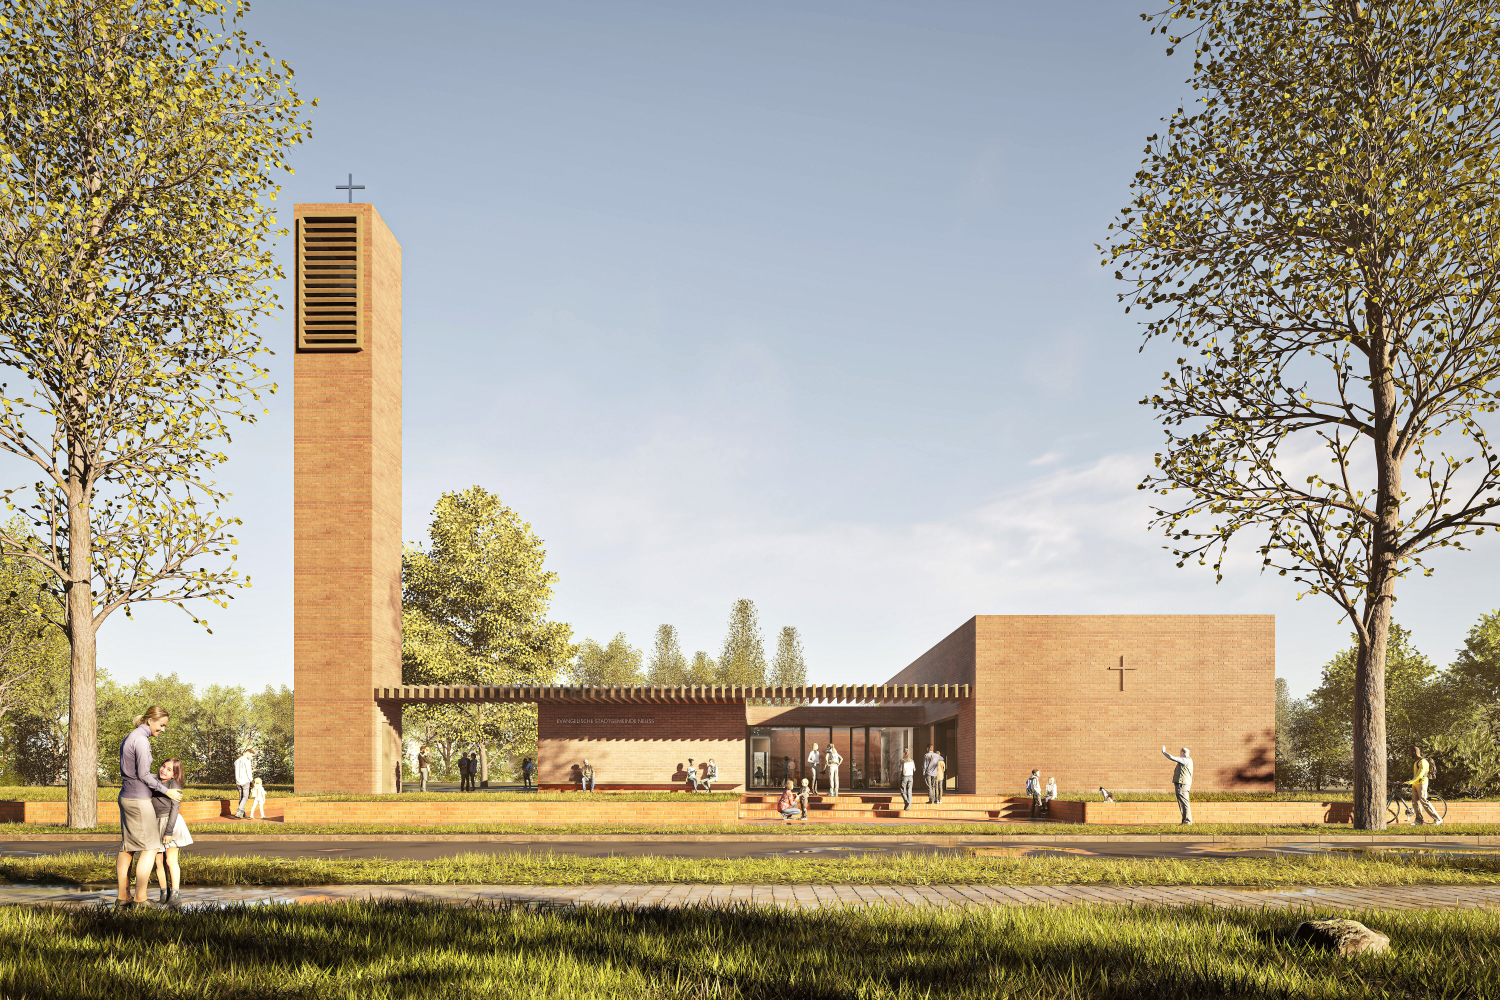
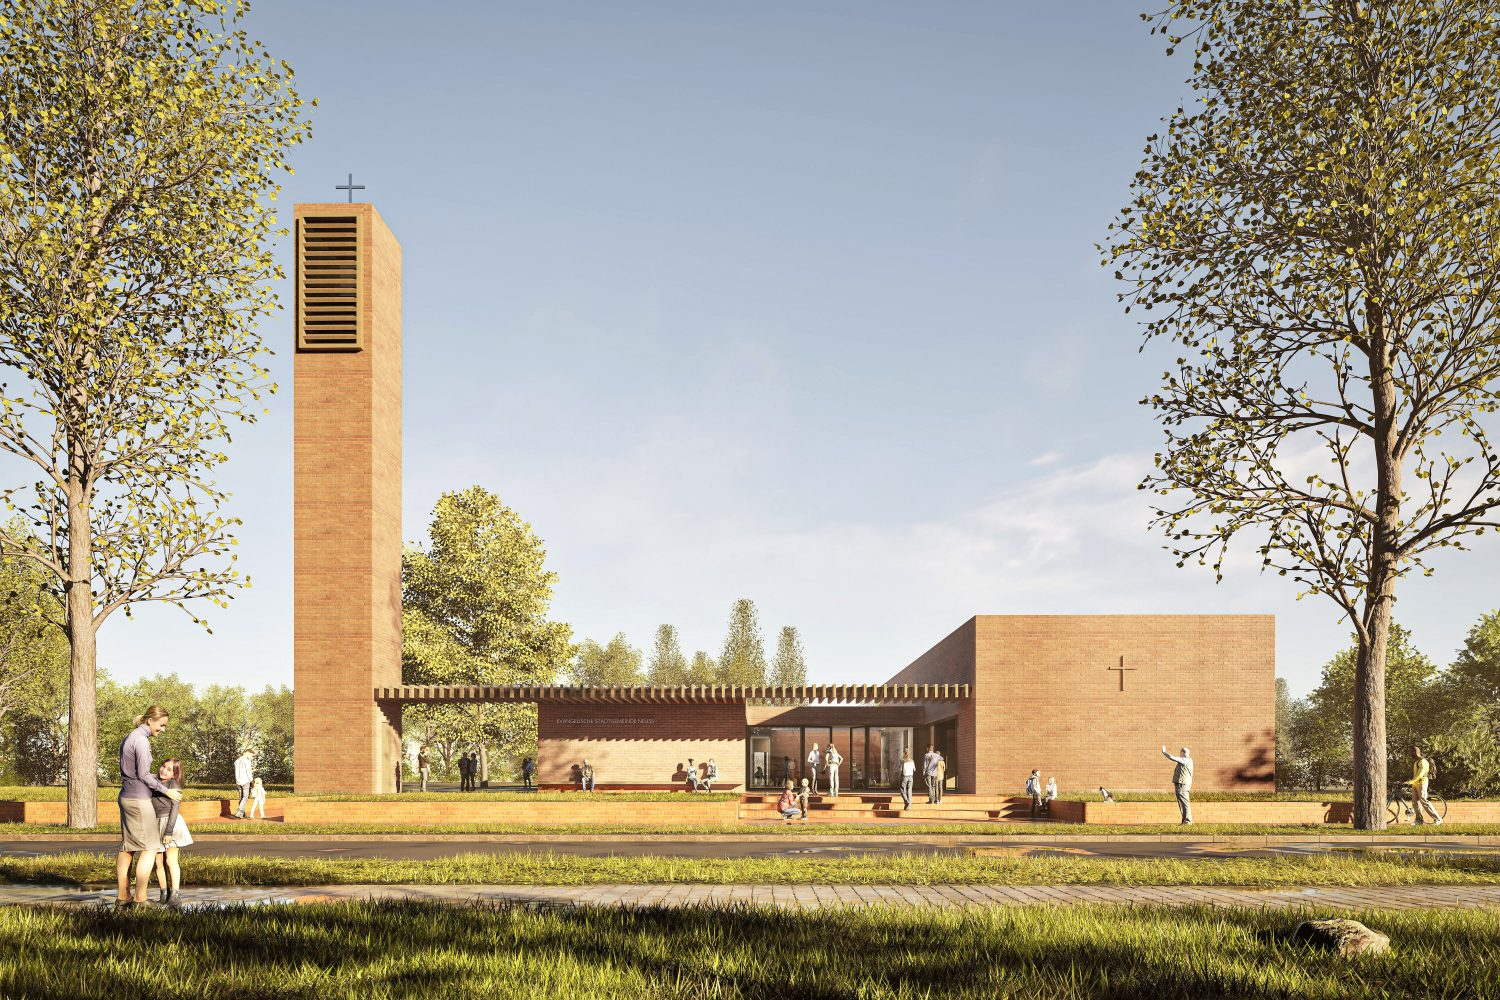
dca

diff --git a/_SKRIPT_titelbilder_verkleinern.py b/_SKRIPT_titelbilder_verkleinern.py
@@ -1,0 +1,69 @@
+"""
+Verkleinert die Datei "DCA-Titelbild.jpg" in jedem Projektordner unter "projekte",
+damit das Grid auf der Startseite schneller lädt.
+
+Vorgehen:
+- Original wird einmalig in einen Unterordner "original" verschoben (Sicherung)
+- Aus dem Original wird eine verkleinerte/komprimierte Version erzeugt
+  und unter dem ursprünglichen Namen (DCA-Titelbild.jpg) gespeichert
+
+Benötigt: Pillow  ->  pip install Pillow
+"""
+
+import os
+from pathlib import Path
+from PIL import Image
+
+# === Einstellungen ===
+# "projekte"-Ordner liegt im selben Verzeichnis wie dieses Skript
+PROJEKTE_ORDNER = Path(__file__).resolve().parent / "projekte"
+DATEINAME = "DCA-Titelbild.jpg"
+MAX_BREITE = 2000           # maximale Breite in Pixel (Höhe wird proportional angepasst)
+JPEG_QUALITAET = 82          # Kompressionsqualität 1-100, 80-85 ist ein guter Kompromiss
+BACKUP_ORDNER = "original"   # Unterordner, in dem die Originaldatei gesichert wird
+
+
+def verkleinere_bild(pfad: Path):
+    backup_dir = pfad.parent / BACKUP_ORDNER
+    backup_dir.mkdir(exist_ok=True)
+    backup_pfad = backup_dir / pfad.name
+
+    # Original einmalig sichern
+    if not backup_pfad.exists():
+        pfad.rename(backup_pfad)
+
+    quelle = backup_pfad
+
+    with Image.open(quelle) as img:
+        img = img.convert("RGB")
+        breite, hoehe = img.size
+        if breite > MAX_BREITE:
+            verhaeltnis = MAX_BREITE / breite
+            neue_groesse = (MAX_BREITE, round(hoehe * verhaeltnis))
+            img = img.resize(neue_groesse, Image.LANCZOS)
+        img.save(pfad, "JPEG", quality=JPEG_QUALITAET, optimize=True)
+
+    alt_kb = quelle.stat().st_size / 1024
+    neu_kb = pfad.stat().st_size / 1024
+    projekt = pfad.parent.parent.name
+    print(f"{projekt}: {alt_kb:.0f} KB -> {neu_kb:.0f} KB")
+
+
+def main():
+    projekte = Path(PROJEKTE_ORDNER)
+    if not projekte.is_dir():
+        print(f"Ordner nicht gefunden: {projekte}")
+        return
+
+    for projekt_ordner in sorted(projekte.iterdir()):
+        if not projekt_ordner.is_dir():
+            continue
+        titelbild = projekt_ordner / "bilder" / DATEINAME
+        if titelbild.exists():
+            verkleinere_bild(titelbild)
+        else:
+            print(f"{projekt_ordner.name}: kein {DATEINAME} gefunden")
+
+
+if __name__ == "__main__":
+    main()
